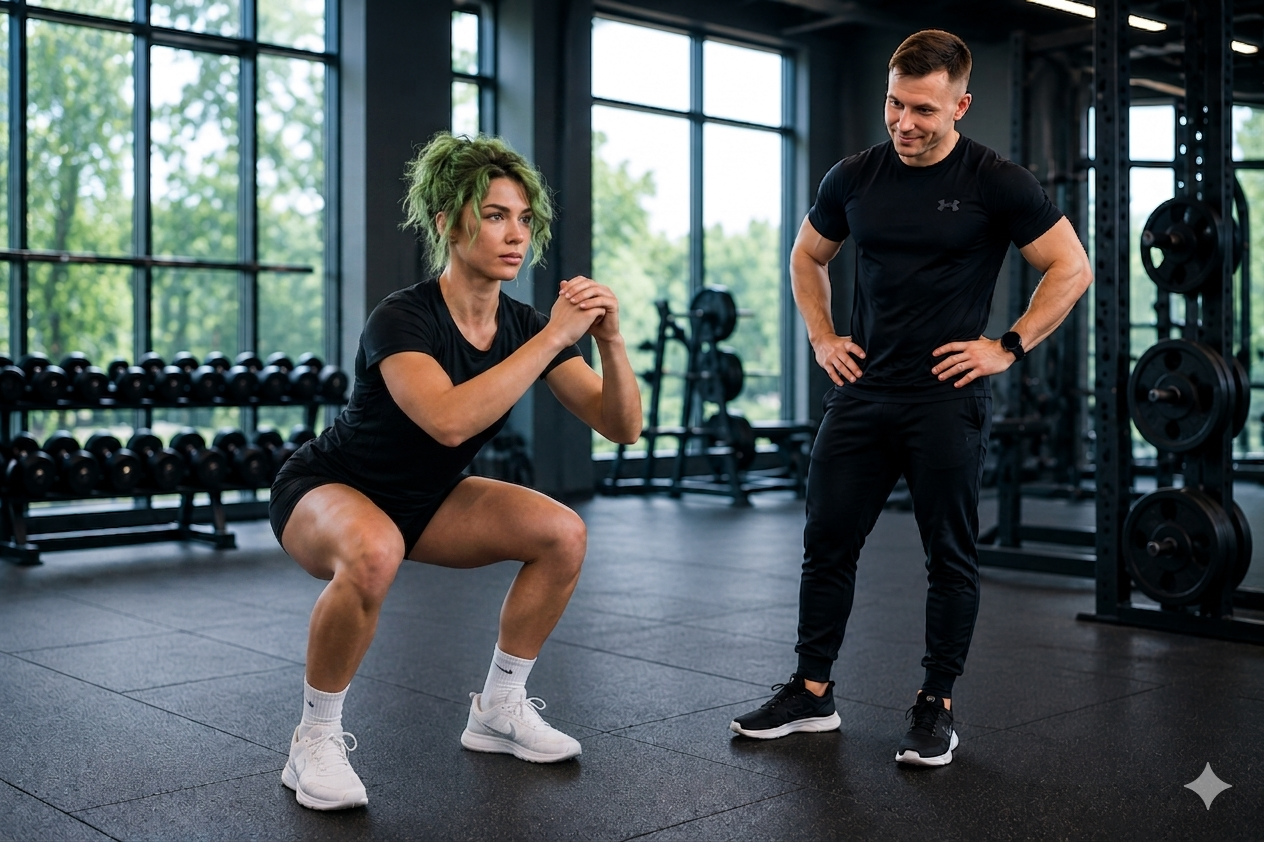
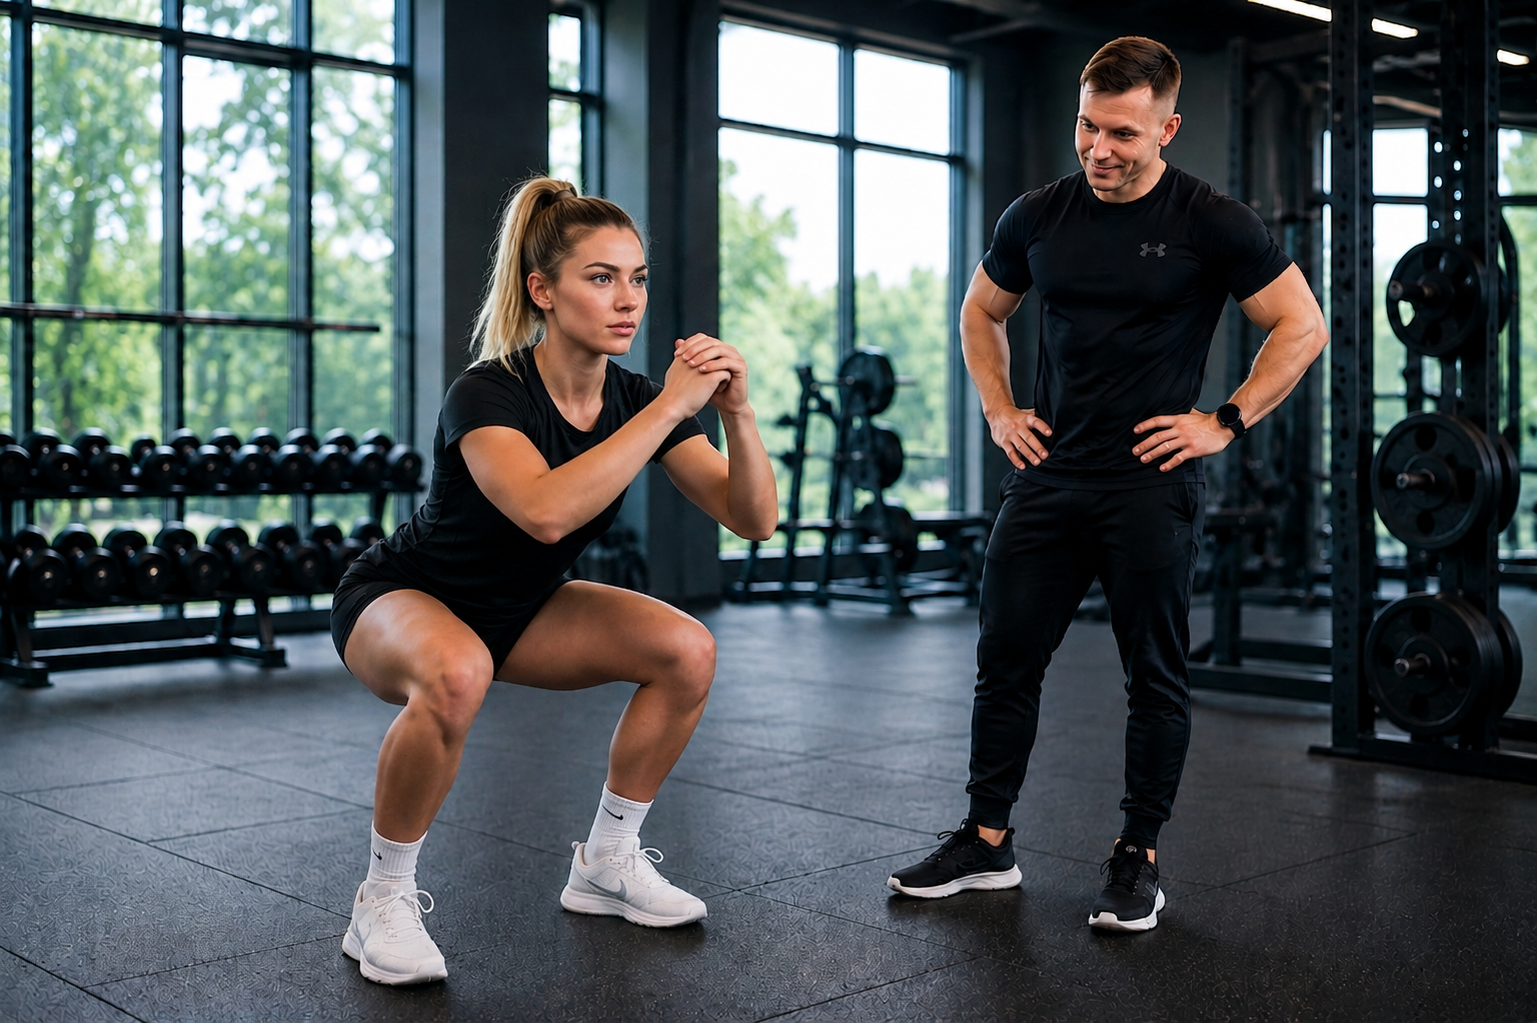
zmiana zdjęć part któryś z kolei

diff --git a/src/components/Hero.tsx b/src/components/Hero.tsx
@@ -3,7 +3,7 @@ import ContactModal from "./ContactModal";
 import '../styleSheets/HeroSection.css'
 
 import fullLogo from '../assets/logo_calosc.svg'
-import bannerImage from "../assets/rybatlo.png";
+import bannerImage from "../assets/rybaner.png";
 
 
 const Hero: React.FC = () => {